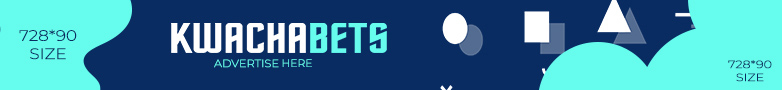
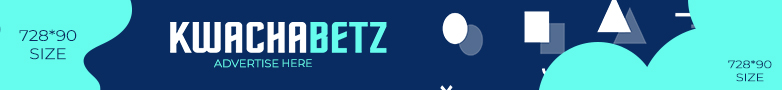
deployment commit

Changed region(s): [[0.2148, 0.2444, 0.5217, 0.6]]

diff --git a/templates/pages/index.html b/templates/pages/index.html
@@ -17,7 +17,7 @@
       <div class="headerline"></div>
       <H3>Welcome to the Worlds largest free bet<br>marketplace. We offer a wide selection of<br>professionally
         analyzed betting tips.</H3>
-      <a class="btn-large" href="#telegram"><span><i class="fab fa-telegram"></i></span> Join KwachaBets</a>
+      <a class="btn-large" href="#telegram"><span><i class="fab fa-telegram"></i></span> Join KwachaBetz</a>
       <div class="icons">
         <i class="fas fa-trophy"></i>
         <i class="fas fa-award"></i>
@@ -149,22 +149,22 @@
       <div class="carded">
         <h6 class="step">01.</h6>
         <h4 class="desc">Analyze</h4>
-        <p>Lorem ipsum dolor sit amet consectetur adipisicing elit. Non, a?</p>
+        <p>The team's performance, Head to Head results & bookie with the best odds</p>
       </div>
       <div class="carded">
         <h6 class="step">02.</h6>
         <h4 class="desc">Predict</h4>
-        <p>Lorem ipsum dolor sit amet consectetur adipisicing elit. Non, a?</p>
+        <p>Highest possible outcome of the match. We are not limited to a specific market</p>
       </div>
       <div class="carded">
         <h6 class="step">03.</h6>
         <h4 class="desc">Win</h4>
-        <p>Lorem ipsum dolor sit amet consectetur adipisicing elit. Non, a?</p>
+        <p>Watch your bet history turn green. Your wins are our wins</p>
       </div>
     </div>
     <div class="notification">
       <p>
-        KwachaBets is a free betting tip marketplace. We have a number of analyzed football bets aimed to help punters
+        KwachaBetz is a free betting tip marketplace. We have a number of analyzed football bets aimed to help punters
         make best gambling choices. I'd like to clarify, we do not deal in Fixed or Sure bet matches. Our selections
         are
         just professionally analyzed and thus we advocate for responsible gambling. Our goal is to be transparent as

diff --git a/templates/partials/_navbar.html b/templates/partials/_navbar.html
@@ -7,7 +7,7 @@
       <ul class="listing">
         <li><a href="{% url 'index' %}">Tips</a></li>
         <li><a href="{% url 'bookie' %}">Bookmakers</a></li>
-        <li><a href="https://bettin.gs/KwachaBets/stats" target="_blank" rel="noopener">Bet History</a></li>
+        <li><a href="https://bettin.gs/KwachaBets/stats">Bet History</a></li>
       </ul>
     </div>
   </div>

diff --git a/templates/partials/_footer.html b/templates/partials/_footer.html
@@ -31,7 +31,7 @@
   </div>
   <hr>
   <div>
-    <p class="copyright">Copyright &copy; 2021. KwachaBets. All Rights Reserved</p>
+    <p class="copyright">Copyright &copy; 2021. KwachaBetz. All Rights Reserved</p>
   </div>
 </footer>
 
